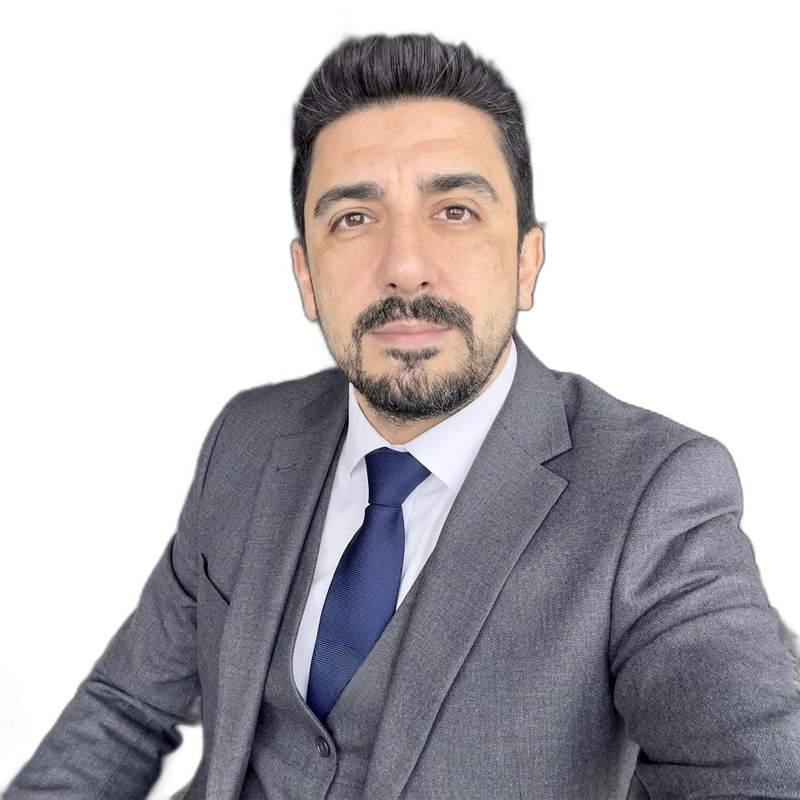
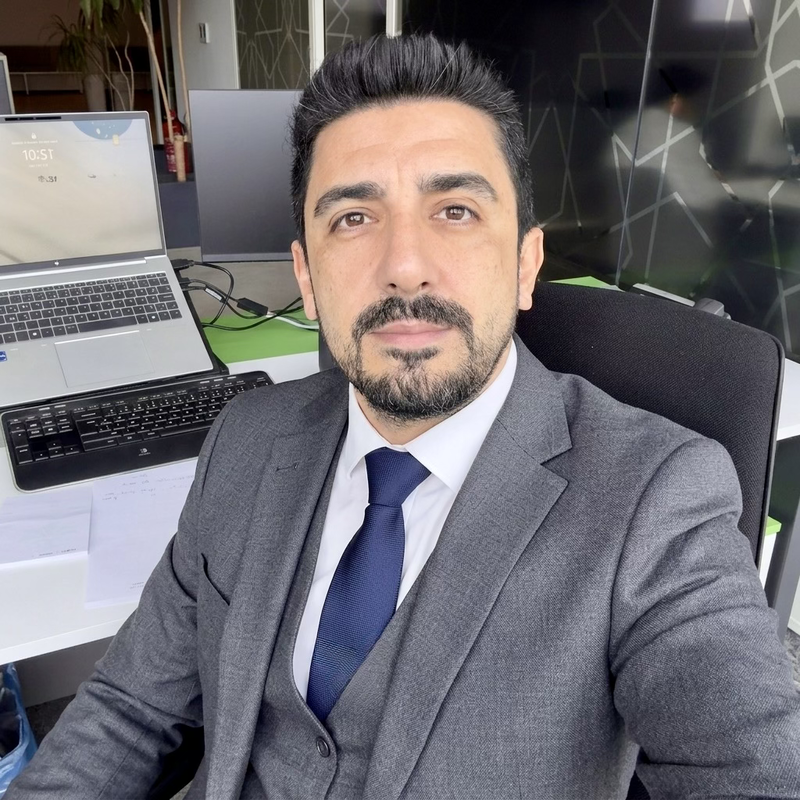
Restore original background photos

diff --git a/remove_bg.py b/remove_bg.py
@@ -1,0 +1,32 @@
+from rembg import remove
+import os
+
+images = ["oktay-solmaz.png", "ugur-cicek.jpg", "ugur-dogan.jpg"]
+public_dir = "public"
+
+for img_name in images:
+    input_path = os.path.join(public_dir, img_name)
+    if os.path.exists(input_path):
+        print(f"Processing {input_path}...")
+        try:
+            with open(input_path, 'rb') as i:
+                input_data = i.read()
+                
+            output_data = remove(input_data)
+            
+            # Save as .png to support transparency
+            new_name = os.path.splitext(img_name)[0] + ".png"
+            new_path = os.path.join(public_dir, new_name)
+            
+            with open(new_path, 'wb') as o:
+                o.write(output_data)
+                
+            if new_path != input_path:
+                os.remove(input_path)
+                print(f"Saved {new_path} and removed old {input_path}")
+            else:
+                print(f"Overwrote {new_path}")
+        except Exception as e:
+            print(f"Failed to process {img_name}: {e}")
+    else:
+        print(f"File not found: {input_path}")